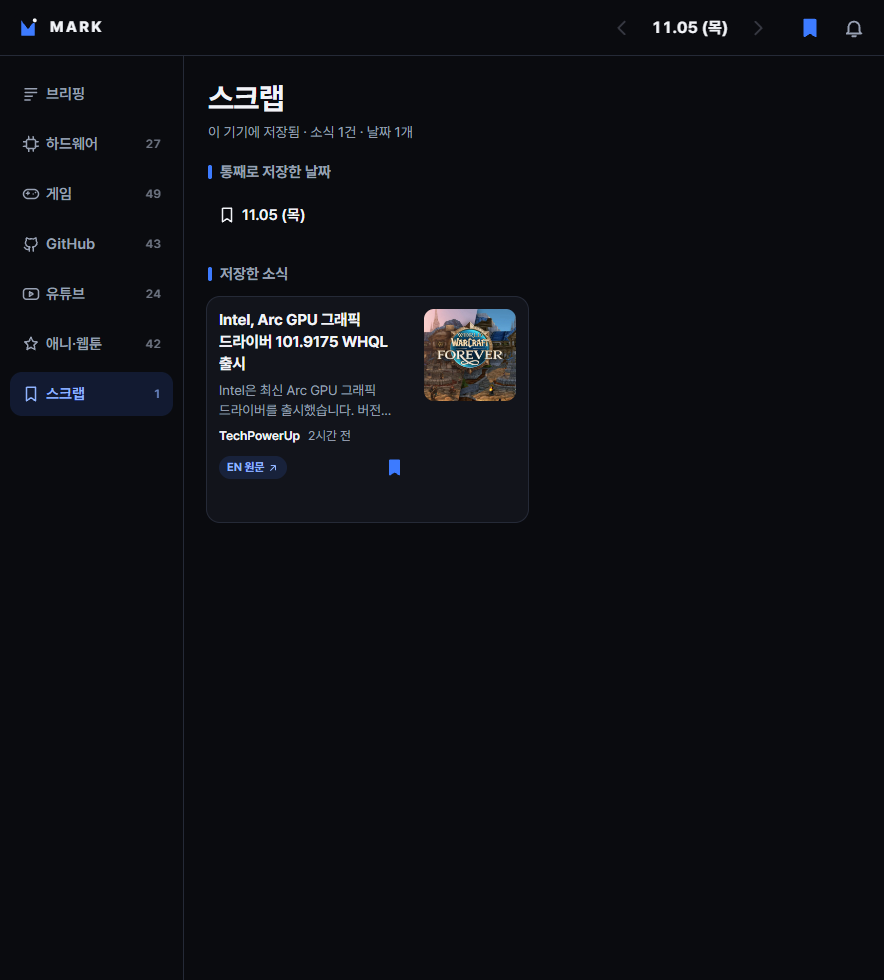
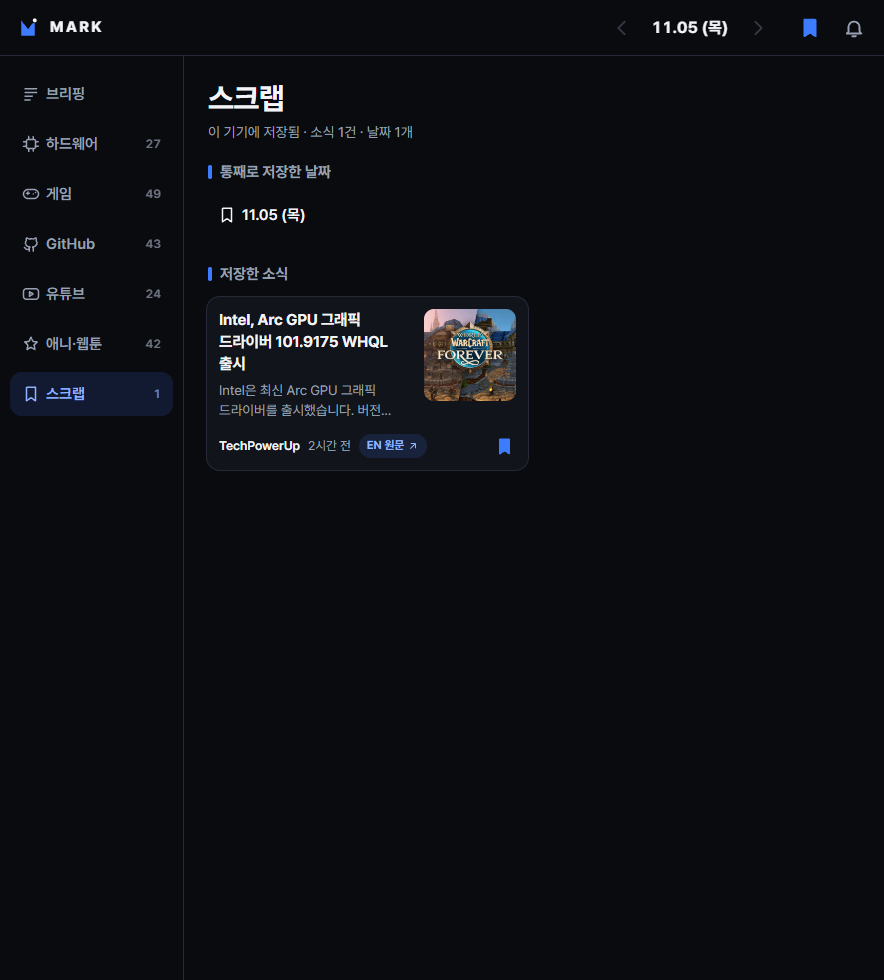
fix: push after deploy, rebase before push, KST date label, network-first SW, safe import keys

Changed region(s): [[0.2443, 0.4286, 0.4887, 0.4898], [0.5498, 0.4286, 0.5803, 0.4592]]

diff --git a/docs/app.js b/docs/app.js
@@ -35,7 +35,8 @@ function ago(ms) {
   if (m < 1440) return `${Math.round(m / 60)}시간 전`;
   return `${Math.round(m / 1440)}일 전`;
 }
-const dayLabel = (d) => { const x = new Date(d + 'T00:00:00+09:00'); return `${x.getMonth() + 1}.${String(x.getDate()).padStart(2, '0')} (${'일월화수목금토'[x.getDay()]})`; };
+// 날짜 문자열은 KST 기준. 기기 시간대와 무관하게 UTC 로 읽는다
+const dayLabel = (d) => { const x = new Date(d + 'T00:00:00Z'); return `${x.getUTCMonth() + 1}.${String(x.getUTCDate()).padStart(2, '0')} (${'일월화수목금토'[x.getUTCDay()]})`; };
 
 function card(it, { hero = false, date = state.date } = {}) {
   const saved = !!scraps[it.id];
@@ -65,7 +66,7 @@ function renderTabs() {
   const secs = state.data?.sections ?? [];
   const tabs = [['brief', '브리핑', null], ...secs.map((s) => [s.id, s.title, s.groups.reduce((n, g) => n + g.items.length, 0)]), ['scrap', '스크랩', Object.keys(scraps).length]];
   $('#tabs').innerHTML = tabs.map(([id, t, n]) =>
-    `<button class="tab" role="tab" data-tab="${id}" aria-selected="${state.tab === id}">${svg(ICON[id] ? id : 'brief')}${esc(t)}${n != null ? `<span class="n">${n}</span>` : ''}</button>`).join('');
+    `<button class="tab" role="tab" data-tab="${esc(id)}" aria-selected="${state.tab === id}">${svg(ICON[id] ? id : 'brief')}${esc(t)}${n != null ? `<span class="n">${n}</span>` : ''}</button>`).join('');
   $('#tabs').setAttribute('role', 'tablist');
 }
 
@@ -93,7 +94,7 @@ function renderScrap() {
   const list = Object.values(scraps).sort((a, b) => (b.savedAt ?? 0) - (a.savedAt ?? 0));
   const dl = Object.keys(days).sort().reverse();
   return `<div class="hello"><h1>스크랩</h1><p>이 기기에 저장됨 · 소식 ${list.length}건 · 날짜 ${dl.length}개</p></div>
-    ${dl.length ? `<section class="group"><h2>통째로 저장한 날짜</h2><div class="days">${dl.map((d) => `<button class="tab" data-day="${d}">${svg('scrap')}${dayLabel(d)}</button>`).join('')}</div></section>` : ''}
+    ${dl.length ? `<section class="group"><h2>통째로 저장한 날짜</h2><div class="days">${dl.map((d) => `<button class="tab" data-day="${esc(d)}">${svg('scrap')}${esc(dayLabel(d))}</button>`).join('')}</div></section>` : ''}
     <section class="group"><h2>저장한 소식</h2>${list.length ? `<div class="cards">${list.map((it) => card(it, { date: it.date })).join('')}</div>` : '<p class="empty">카드의 책갈피 버튼을 누르면 여기에 모여요.</p>'}</section>`;
 }
 
@@ -158,7 +159,8 @@ $('#exportScrap').onclick = () => {
 $('#importScrap').onchange = async (e) => {
   try {
     const j = JSON.parse(await e.target.files[0].text());
-    scraps = { ...scraps, ...j.scraps }; days = { ...days, ...j.days };
+    const okDays = Object.fromEntries(Object.entries(j.days ?? {}).filter(([k]) => /^\d{4}-\d\d-\d\d$/.test(k)));
+    scraps = { ...scraps, ...j.scraps }; days = { ...days, ...okDays };
     store.set('mark.items', scraps); store.set('mark.days', days); toast('가져왔어요'); render();
   } catch { toast('파일을 읽지 못했어요'); }
 };

diff --git a/docs/sw.js b/docs/sw.js
@@ -1,21 +1,25 @@
-// 셸은 캐시 우선, 데이터는 네트워크 우선(오프라인이면 캐시)
-const V = 'mark-v1';
+// 같은 출처 요청은 전부 네트워크 우선(HTTP 캐시 무시) → 실패 시 캐시. 배포 직후에도 셸·데이터 버전이 섞이지 않는다.
+const V = 'mark-v2';
 const SHELL = ['./', 'index.html', 'style.css', 'app.js', 'manifest.webmanifest', 'icons/icon.svg', 'icons/icon-192.png'];
 self.addEventListener('install', (e) => { e.waitUntil(caches.open(V).then((c) => c.addAll(SHELL))); self.skipWaiting(); });
 self.addEventListener('activate', (e) => { e.waitUntil(caches.keys().then((ks) => Promise.all(ks.filter((k) => k !== V).map((k) => caches.delete(k))))); self.clients.claim(); });
 self.addEventListener('fetch', (e) => {
   const u = new URL(e.request.url);
   if (e.request.method !== 'GET' || u.origin !== location.origin) return;
-  const net = fetch(e.request).then((r) => { if (r.ok) { const c = r.clone(); caches.open(V).then((x) => x.put(e.request, c)); } return r; });
-  e.respondWith(u.pathname.includes('/data/') || u.pathname.endsWith('/app.js') || u.pathname.endsWith('/style.css')
-    ? net.catch(() => caches.match(e.request))
-    : caches.match(e.request, { ignoreSearch: true }).then((hit) => hit || net));
+  e.respondWith(fetch(e.request, { cache: 'no-cache' })
+    .then((r) => { if (r.ok) { const c = r.clone(); caches.open(V).then((x) => x.put(e.request, c)); } return r; })
+    .catch(() => caches.match(e.request, { ignoreSearch: u.pathname.endsWith('/') || u.pathname.endsWith('index.html') })));
 });
 self.addEventListener('push', (e) => {
-  const d = e.data?.json() ?? { title: 'MARK', body: '오늘의 브리프가 도착했어요' };
+  let d;
+  try { d = e.data.json(); } catch { d = { title: 'MARK', body: e.data?.text() || '오늘의 브리프가 도착했어요' }; }
   e.waitUntil(self.registration.showNotification(d.title, { body: d.body, icon: 'icons/icon-192.png', badge: 'icons/badge-96.png', data: { url: d.url || './' }, tag: 'daily' }));
 });
 self.addEventListener('notificationclick', (e) => {
   e.notification.close();
-  e.waitUntil(clients.openWindow(new URL(e.notification.data.url, self.registration.scope).href));
+  const url = new URL(e.notification.data?.url || './', self.registration.scope).href;
+  e.waitUntil(clients.matchAll({ type: 'window', includeUncontrolled: true }).then((ws) => {
+    const w = ws.find((c) => c.url.startsWith(self.registration.scope));
+    return w ? w.focus().then(() => w.navigate(url)) : clients.openWindow(url);
+  }));
 });
